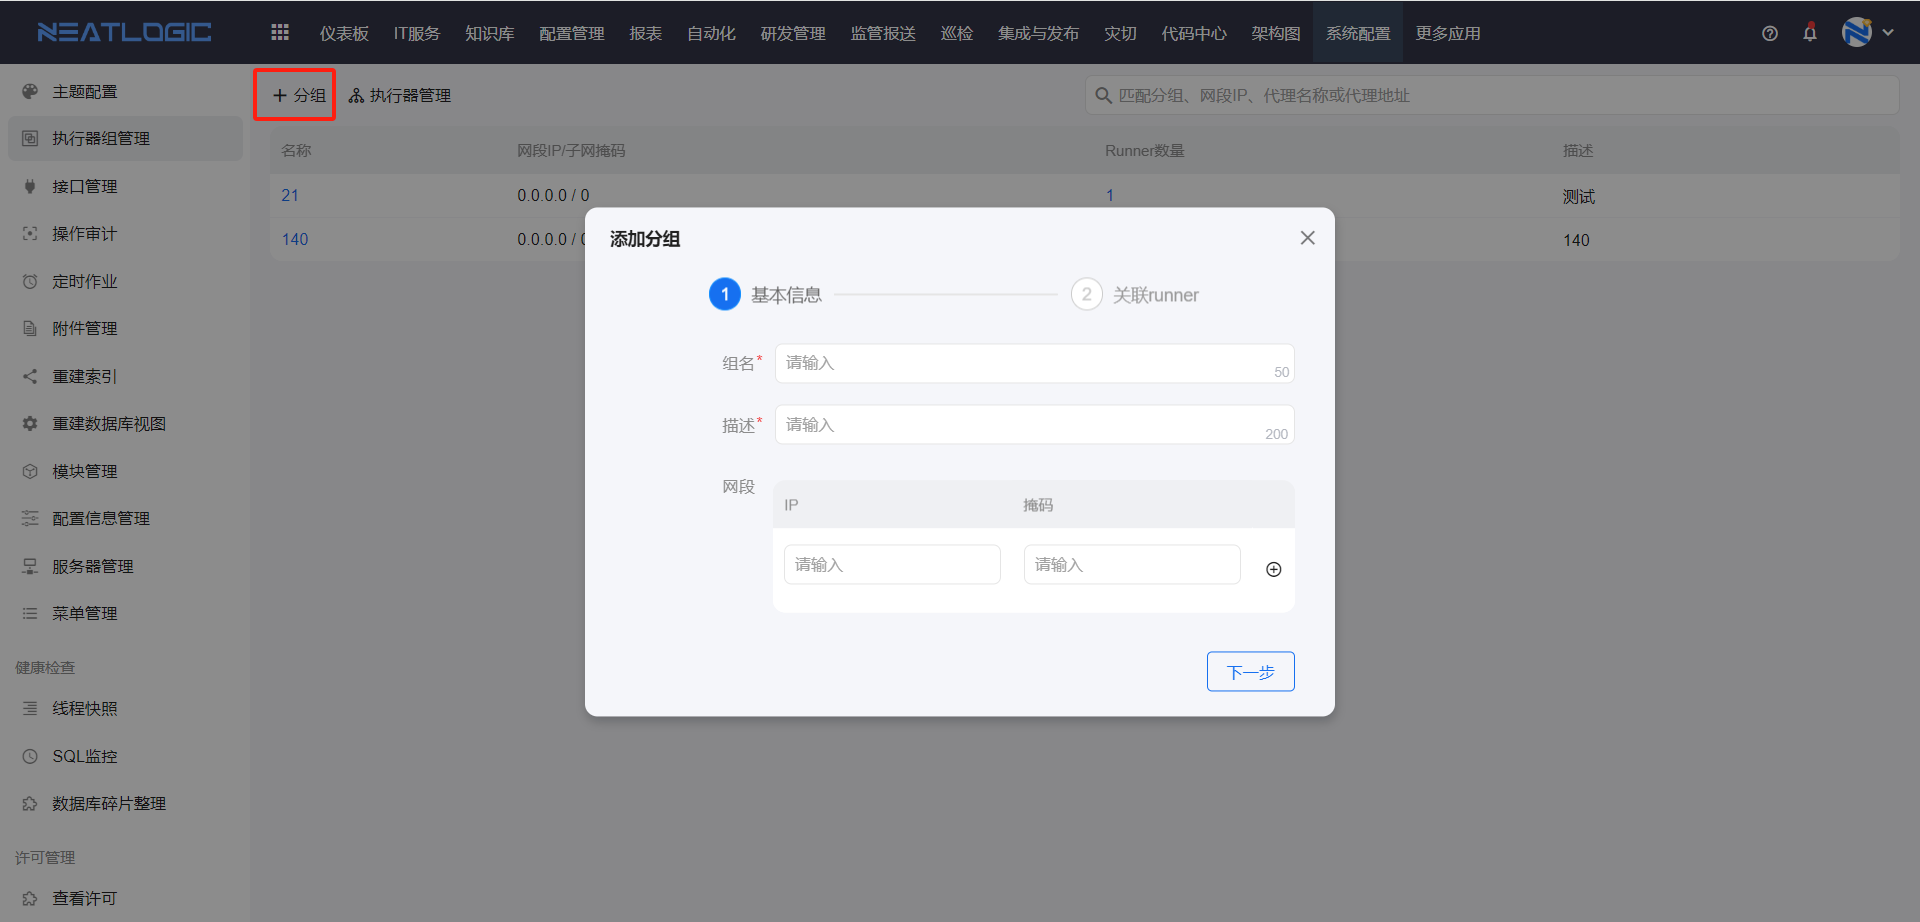
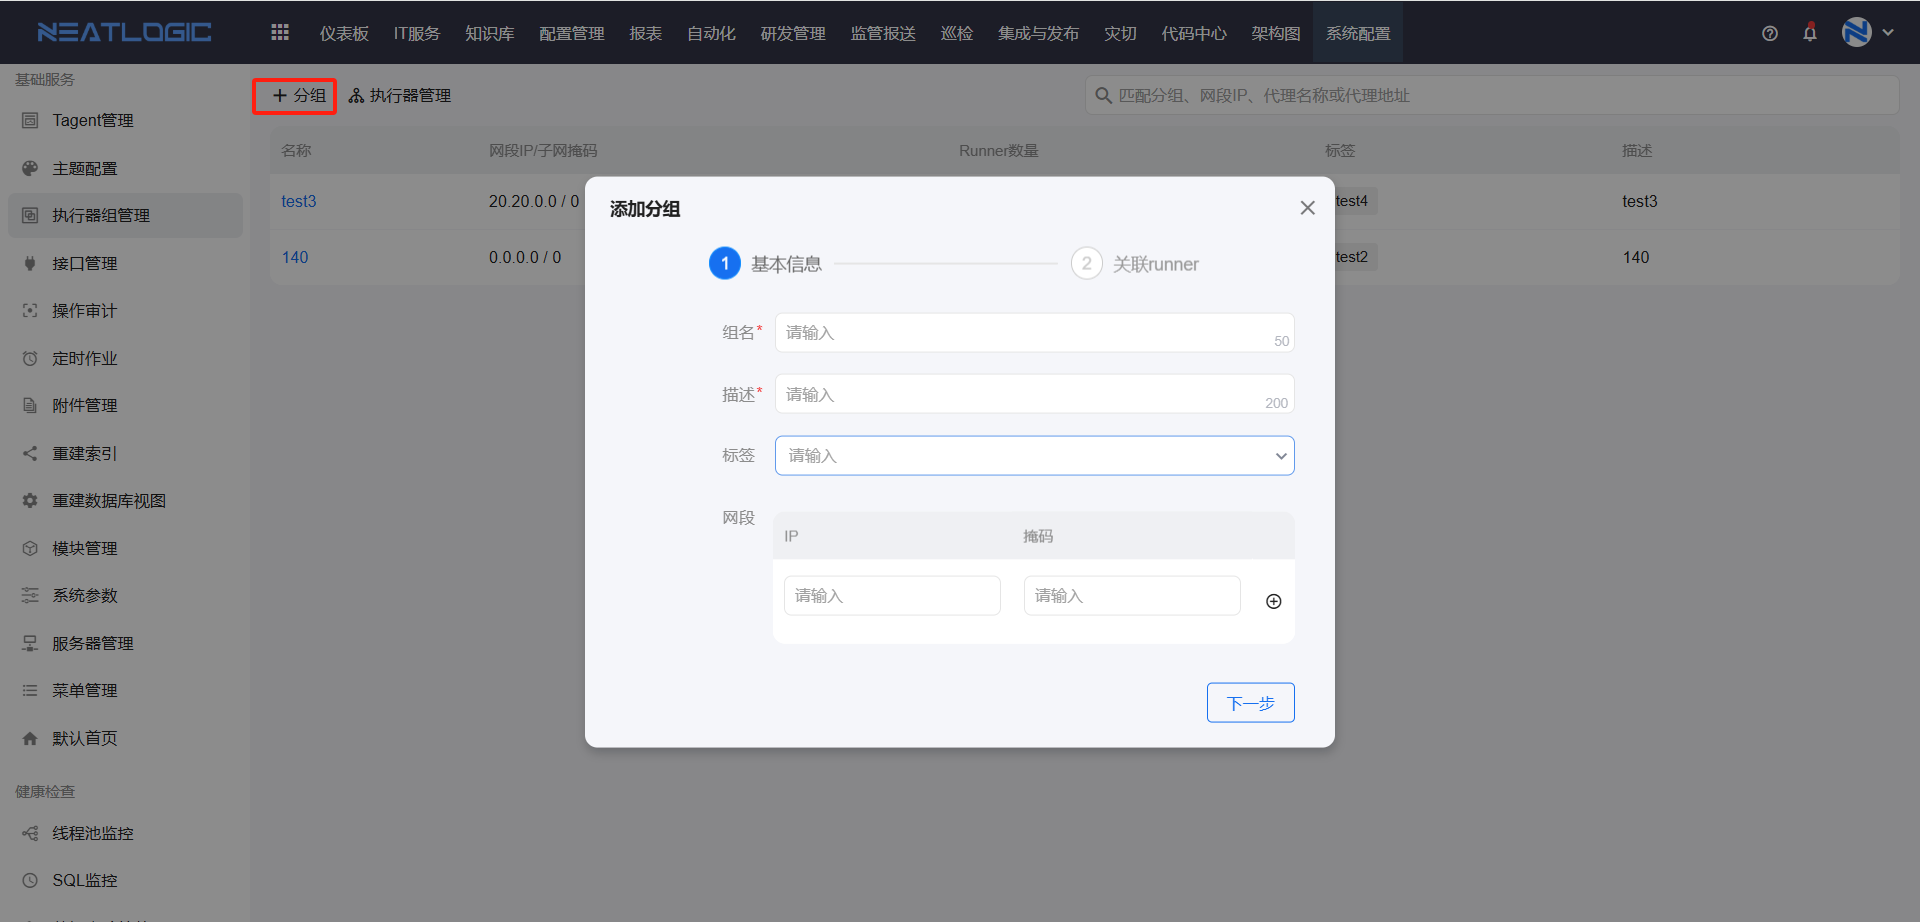
更新系统配置基础服务功能说明

diff --git a/src/main/resources/neatlogic/resources/documentonline/zh/100.系统配置/5.基础服务/执行器组管理.md b/src/main/resources/neatlogic/resources/documentonline/zh/100.系统配置/5.基础服务/执行器组管理.md
@@ -3,8 +3,10 @@
 ![](images/执行器组管理.png)
 
 ## 添加执行器组
-添加执行器组时，有两个步骤，填写基本信息和关联runner（执行器），网段设置是限制当前执行器组能够应用的网段范围。
+添加执行器组时，有两个步骤，填写基本信息和关联runner（执行器），网段设置是限制当前执行器组能够应用的网段范围，在标签组件输入标签文案并回车即可添加标签。
 ![](images/执行器组管理_添加执行器组.png)
+执行器的标签是用来标记的，在发起自动化作业时，需要根据标签过滤分配的执行器组。
+![](images/执行器组管理_标签.png)
 
 ## 执行器管理
 执行器管理中支持添加、删除、编辑和查询执行器等功能。

diff --git a/src/main/resources/neatlogic/resources/documentonline/zh/100.系统配置/5.基础服务/主题设置.md b/src/main/resources/neatlogic/resources/documentonline/zh/100.系统配置/5.基础服务/主题设置.md
@@ -11,9 +11,12 @@
 
 ## 主题配置说明
 ### Logo
-系统默认logo可以替换，上传本地图片并保存即可。
+系统logo可以替换，上传本地图片并保存即可。若没有上传logo图片，则使用系统默认图片。
 ![](images/主题设置_logo.png)
-系统有
+
+### 网站图标
+网站图标即标签页的图标，图标可以替换，上传本地图片并保存即可。若没有上传图片，则使用系统默认图片。
+![](images/主题设置_网站图标.png)
 
 ### 主题色
 主题色是指按钮底色、文本颜色以及经过文本框高亮的颜色，如图所示。

diff --git a/src/main/resources/neatlogic/resources/documentonline/zh/100.系统配置/5.基础服务/Tagent管理.md b/src/main/resources/neatlogic/resources/documentonline/zh/100.系统配置/5.基础服务/Tagent管理.md
@@ -1,6 +1,6 @@
 # Tagent管理
 Tagent管理页面汇总了通过执行器在当前租户注册过的所有tagent服务，系统是通过执行器来并且显示其当前的连接状态。
-![](images/tagent管理.jpg)
+![](images/tagent管理.pngpng)
 
 ## 执行器组和Tagent关系
 首先要在执行器组管理中配置了执行器组（Runner组），通过配置的执行器组找到注册的tagent服务。关于执行器组和tagent服务的安装和注册，请查看[Tagent服务](../../5.自动化/Tagent服务/Tagent服务.md)。
